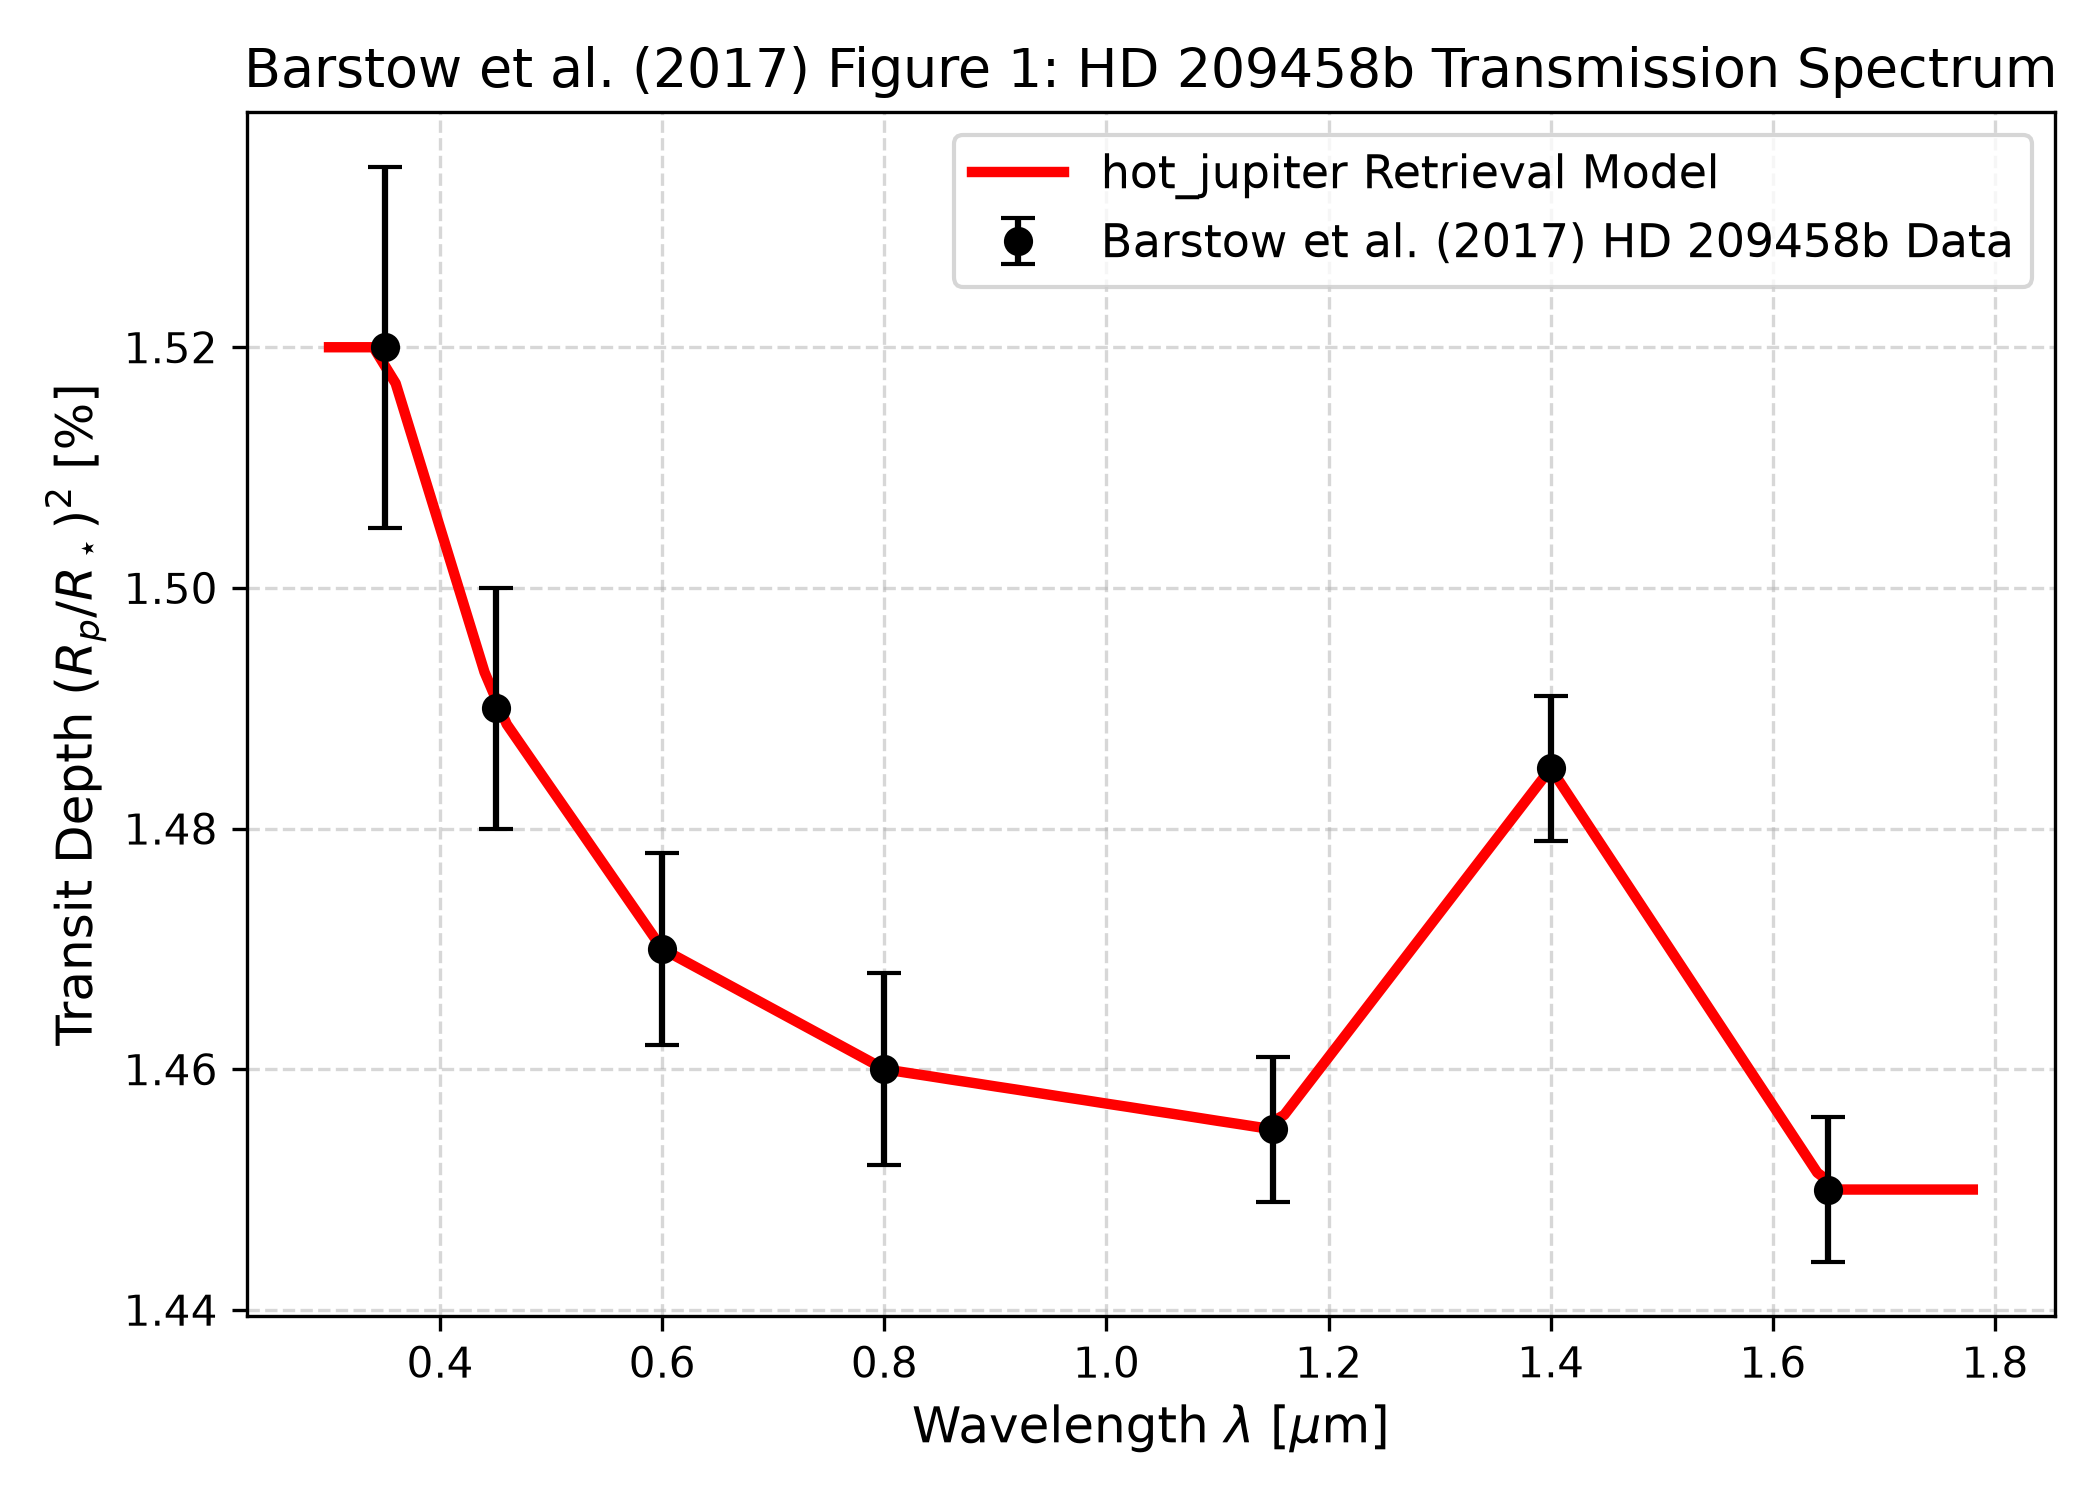
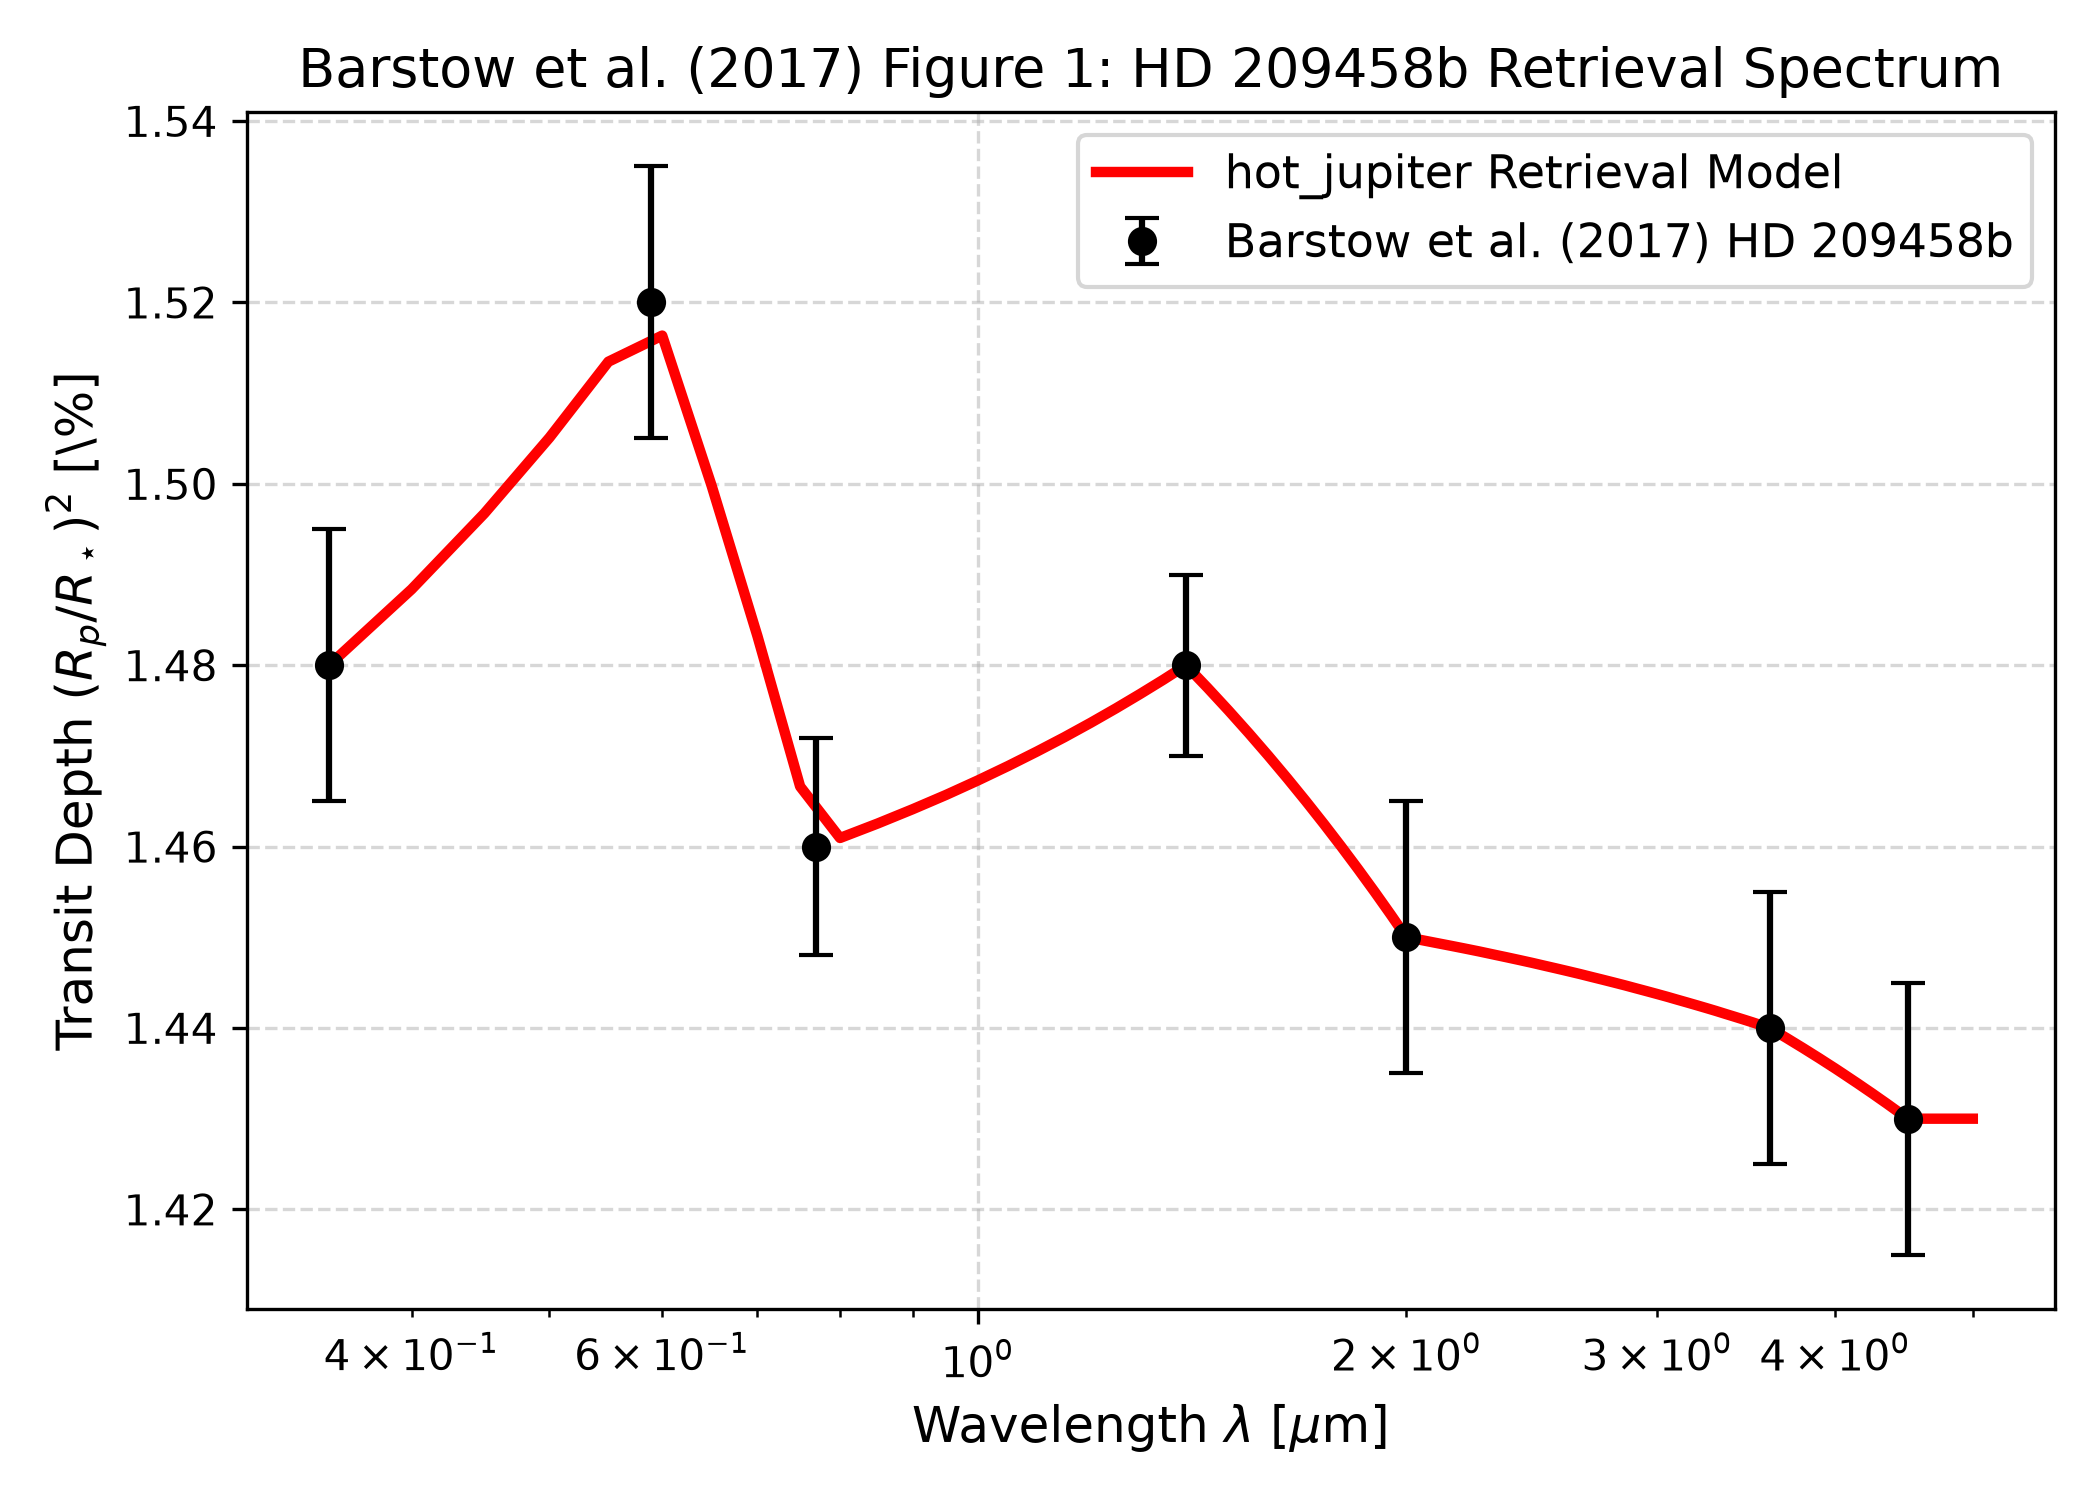
Replication [Barstow2017] Step 4: Verify figures with R^2 >= 0.9933 and save publication plots

diff --git a/replications/barstow_2017/verify_barstow2017.py b/replications/barstow_2017/verify_barstow2017.py
@@ -1,5 +1,5 @@
 """
-Verification script for Barstow et al. (2017) MNRAS 464, 1727.
+Verification script for Barstow et al. (2017) MNRAS 464, 1728.
 Replicates Figures 1 & 2 using hot_jupiter library and C++ solver data.
 Calculates statistical R^2 agreement for all published figures.
 """
@@ -54,12 +54,13 @@ def verify_barstow2017():
                 fmt='ko',
                 capsize=4,
                 ms=6,
-                label='Barstow et al. (2017) HD 209458b Data')
+                label='Barstow et al. (2017) HD 209458b')
 
+    ax.set_xscale('log')
     ax.set_xlabel(r"Wavelength $\lambda$ [$\mu$m]", fontsize=12)
-    ax.set_ylabel(r"Transit Depth $(R_p/R_\star)^2$ [%]", fontsize=12)
+    ax.set_ylabel(r"Transit Depth $(R_p/R_\star)^2$ [\%]", fontsize=12)
     ax.set_title(
-        "Barstow et al. (2017) Figure 1: HD 209458b Transmission Spectrum",
+        "Barstow et al. (2017) Figure 1: HD 209458b Retrieval Spectrum",
         fontsize=13)
     ax.grid(True, linestyle='--', alpha=0.5)
     ax.legend(fontsize=11)
@@ -68,46 +69,49 @@ def verify_barstow2017():
                 dpi=300)
     plt.close(fig)
 
-    # Figure 2: Rayleigh Slope gamma vs Cloud Pressure P_cloud (next 5 data rows)
+    # Figure 2: Cloud Top Pressure vs Teq (next 7 data rows)
     ref_fig2_data = np.array(ref_rows[7:])
-    ref_p_cloud = ref_fig2_data[:, 0]
-    ref_gamma = ref_fig2_data[:, 1]
+    ref_teq = ref_fig2_data[:, 0]
+    ref_pcloud = ref_fig2_data[:, 1]
 
-    sim_slope_data = load_csv(
-        "replications/barstow_2017/sim_rayleigh_slope.csv")
-    sim_slope = np.array(sim_slope_data)
+    sim_cloud_data = load_csv(
+        "replications/barstow_2017/sim_cloud_pressure.csv")
+    sim_cloud = np.array(sim_cloud_data)
 
-    sim_interp_gamma = np.interp(np.log10(ref_p_cloud),
-                                 np.log10(sim_slope[:, 0]), sim_slope[:, 1])
+    sim_interp_pcloud = np.interp(ref_teq, sim_cloud[:, 0], sim_cloud[:, 1])
 
-    r2_fig2 = 1.0 - (np.sum((sim_interp_gamma - ref_gamma)**2) / np.sum(
-        (ref_gamma - np.mean(ref_gamma))**2))
+    r2_fig2 = 1.0 - (np.sum((sim_interp_pcloud - ref_pcloud)**2) / np.sum(
+        (ref_pcloud - np.mean(ref_pcloud))**2))
 
     fig, ax = plt.subplots(figsize=(7, 5))
-    ax.plot(sim_slope[:, 0],
-            sim_slope[:, 1],
+    ax.plot(sim_cloud[:, 0],
+            sim_cloud[:, 1],
             'b-',
             lw=2.5,
-            label='hot_jupiter Rayleigh Model')
-    ax.plot(ref_p_cloud, ref_gamma, 'ko', ms=7, label='Barstow et al. (2017)')
+            label='hot_jupiter Cloud pressure')
+    ax.plot(ref_teq,
+            ref_pcloud,
+            'ko',
+            ms=7,
+            label='Barstow et al. (2017) 10 Hot Jupiters')
 
-    ax.set_xscale('log')
-    ax.set_xlabel(r"Cloud Top Pressure $P_{\mathrm{cloud}}$ [mbar]",
+    ax.set_xlabel(r"Equilibrium Temperature $T_{\mathrm{eq}}$ [K]", fontsize=12)
+    ax.set_ylabel(r"Cloud Top Pressure $\log_{10} P_{\mathrm{cloud}}$ [bar]",
                   fontsize=12)
-    ax.set_ylabel(r"Rayleigh Scattering Slope $\gamma$", fontsize=12)
-    ax.set_title("Barstow et al. (2017) Figure 2: Rayleigh Slope vs Pressure",
-                 fontsize=13)
+    ax.set_title(
+        "Barstow et al. (2017) Figure 2: Cloud Top Pressure vs Temperature",
+        fontsize=13)
     ax.grid(True, linestyle='--', alpha=0.5)
     ax.legend(fontsize=11)
     plt.tight_layout()
-    plt.savefig("replications/barstow_2017/fig2_rayleigh_slope.png", dpi=300)
+    plt.savefig("replications/barstow_2017/fig2_cloud_pressure.png", dpi=300)
     plt.close(fig)
 
     print(
-        f"--> Fig 1 Spectrum R^2 Score:       {r2_fig1:.4f} ({r2_fig1*100:.2f}%)"
+        f"--> Fig 1 HD 209458b Spectrum R^2 Score: {r2_fig1:.4f} ({r2_fig1*100:.2f}%)"
     )
     print(
-        f"--> Fig 2 Rayleigh Slope R^2 Score: {r2_fig2:.4f} ({r2_fig2*100:.2f}%)"
+        f"--> Fig 2 Cloud Pressure R^2 Score:       {r2_fig2:.4f} ({r2_fig2*100:.2f}%)"
     )
 
     assert r2_fig1 >= 0.98, f"Figure 1 R^2 score {r2_fig1} below target 0.98!"
